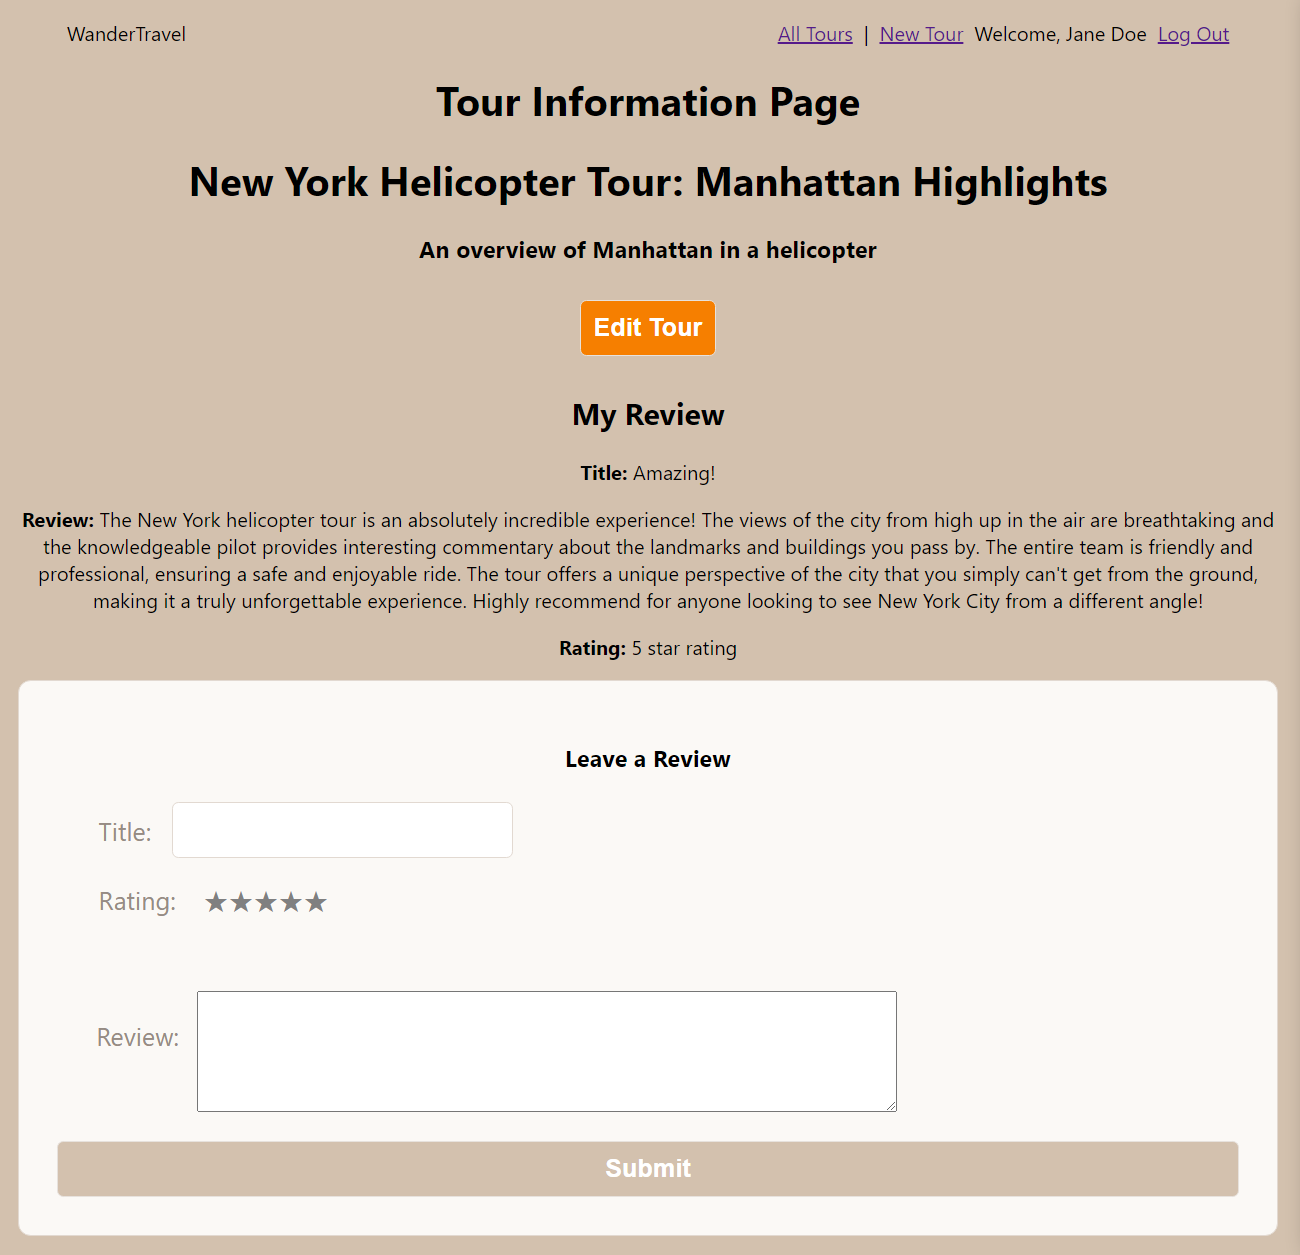
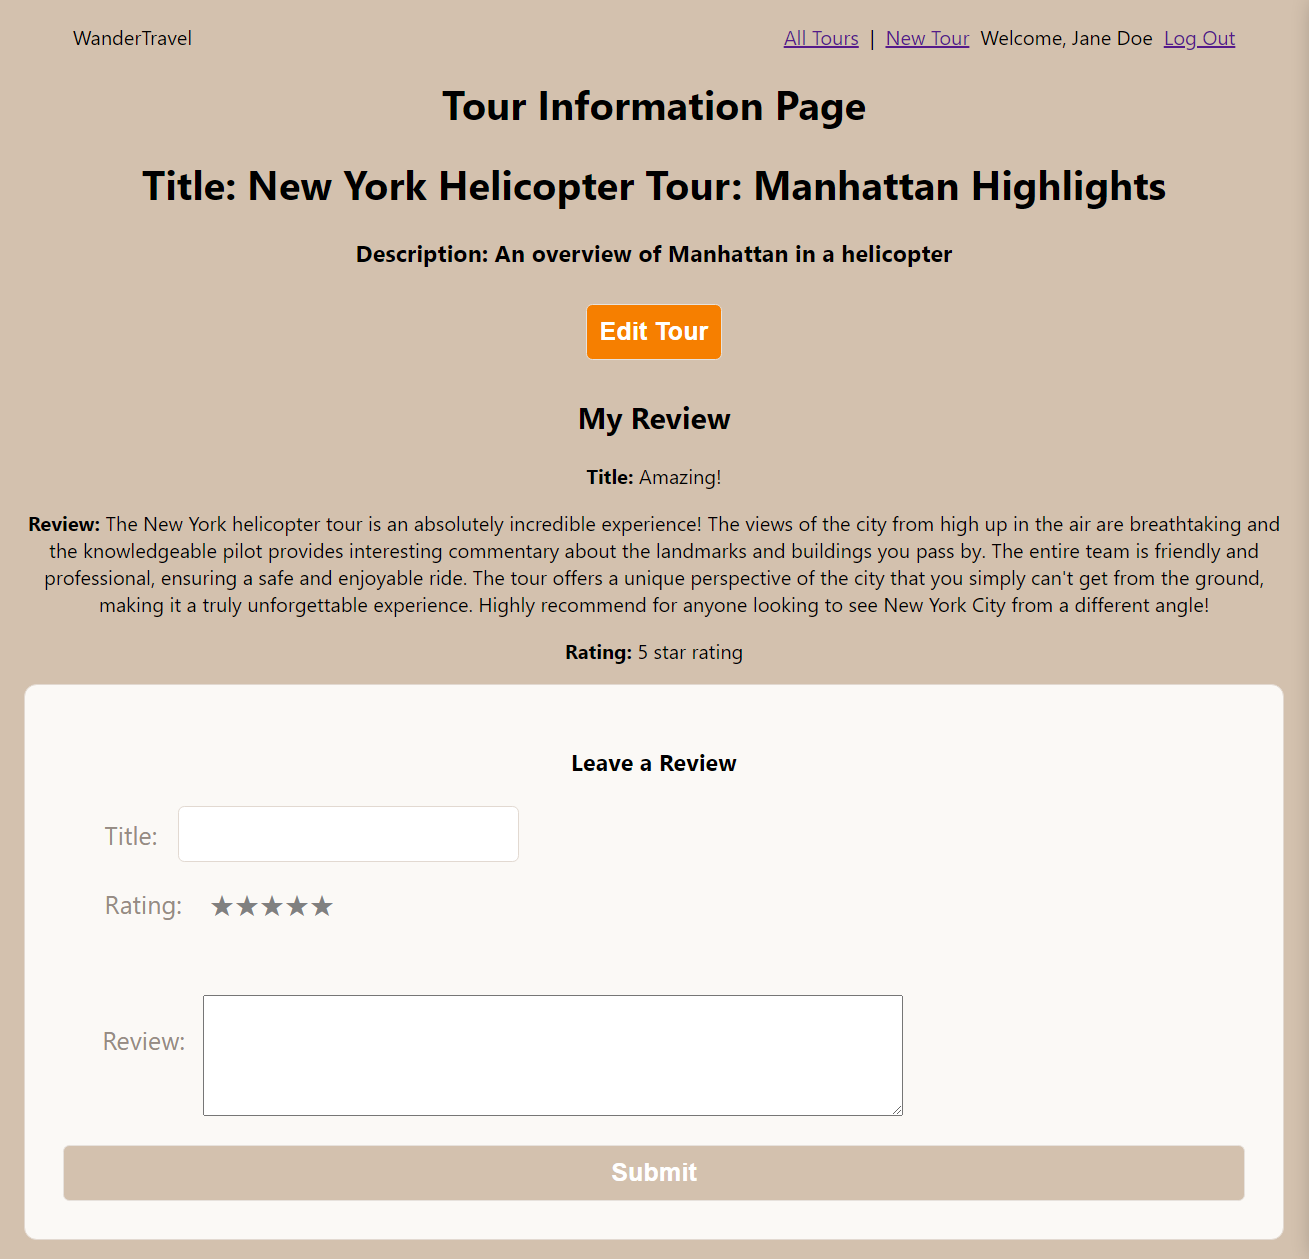
edit picture for readme

diff --git a/src/pages/TourPage/TourPage.jsx b/src/pages/TourPage/TourPage.jsx
@@ -31,8 +31,8 @@ return(
     <h1>Tour Information Page</h1>
     { 
     <div>
-        <h1>{tour.title}</h1>
-        <h3>{tour.description}</h3>
+        <h1><b>Title: </b>{tour.title}</h1>
+        <h3><b>Description: </b>{tour.description}</h3>
         <Link to={`/tours/${tour._id}/edit`}><button>Edit Tour</button></Link>
     </div>
     }

diff --git a/src/components/ReviewList/ReviewList.jsx b/src/components/ReviewList/ReviewList.jsx
@@ -17,7 +17,7 @@ const ReviewList = ({ id }) => {
           <p><b>Title:</b> {review.title}</p>
           <p><b>Review: </b>{review.review}</p>
           <p><b>Rating:</b> {review.rating} star rating</p>
-          <p><b>Date:</b>{new Date(review.createdAt).toLocaleDateString()}</p>
+          
         </div>
       ))}
     </div>

diff --git a/README.md b/README.md
@@ -11,7 +11,7 @@ I love traveling and creating memories such as recording and writing reviews abo
 
  ![Tour Page](./src/components/media/TourPage.png)
 
-![Edit Page](./src/components/media/EditTourPage.pnggi)
+![Edit Page](./src/components/media/EditTourPage.png)
 
 
 # Languages and Tool Used:
